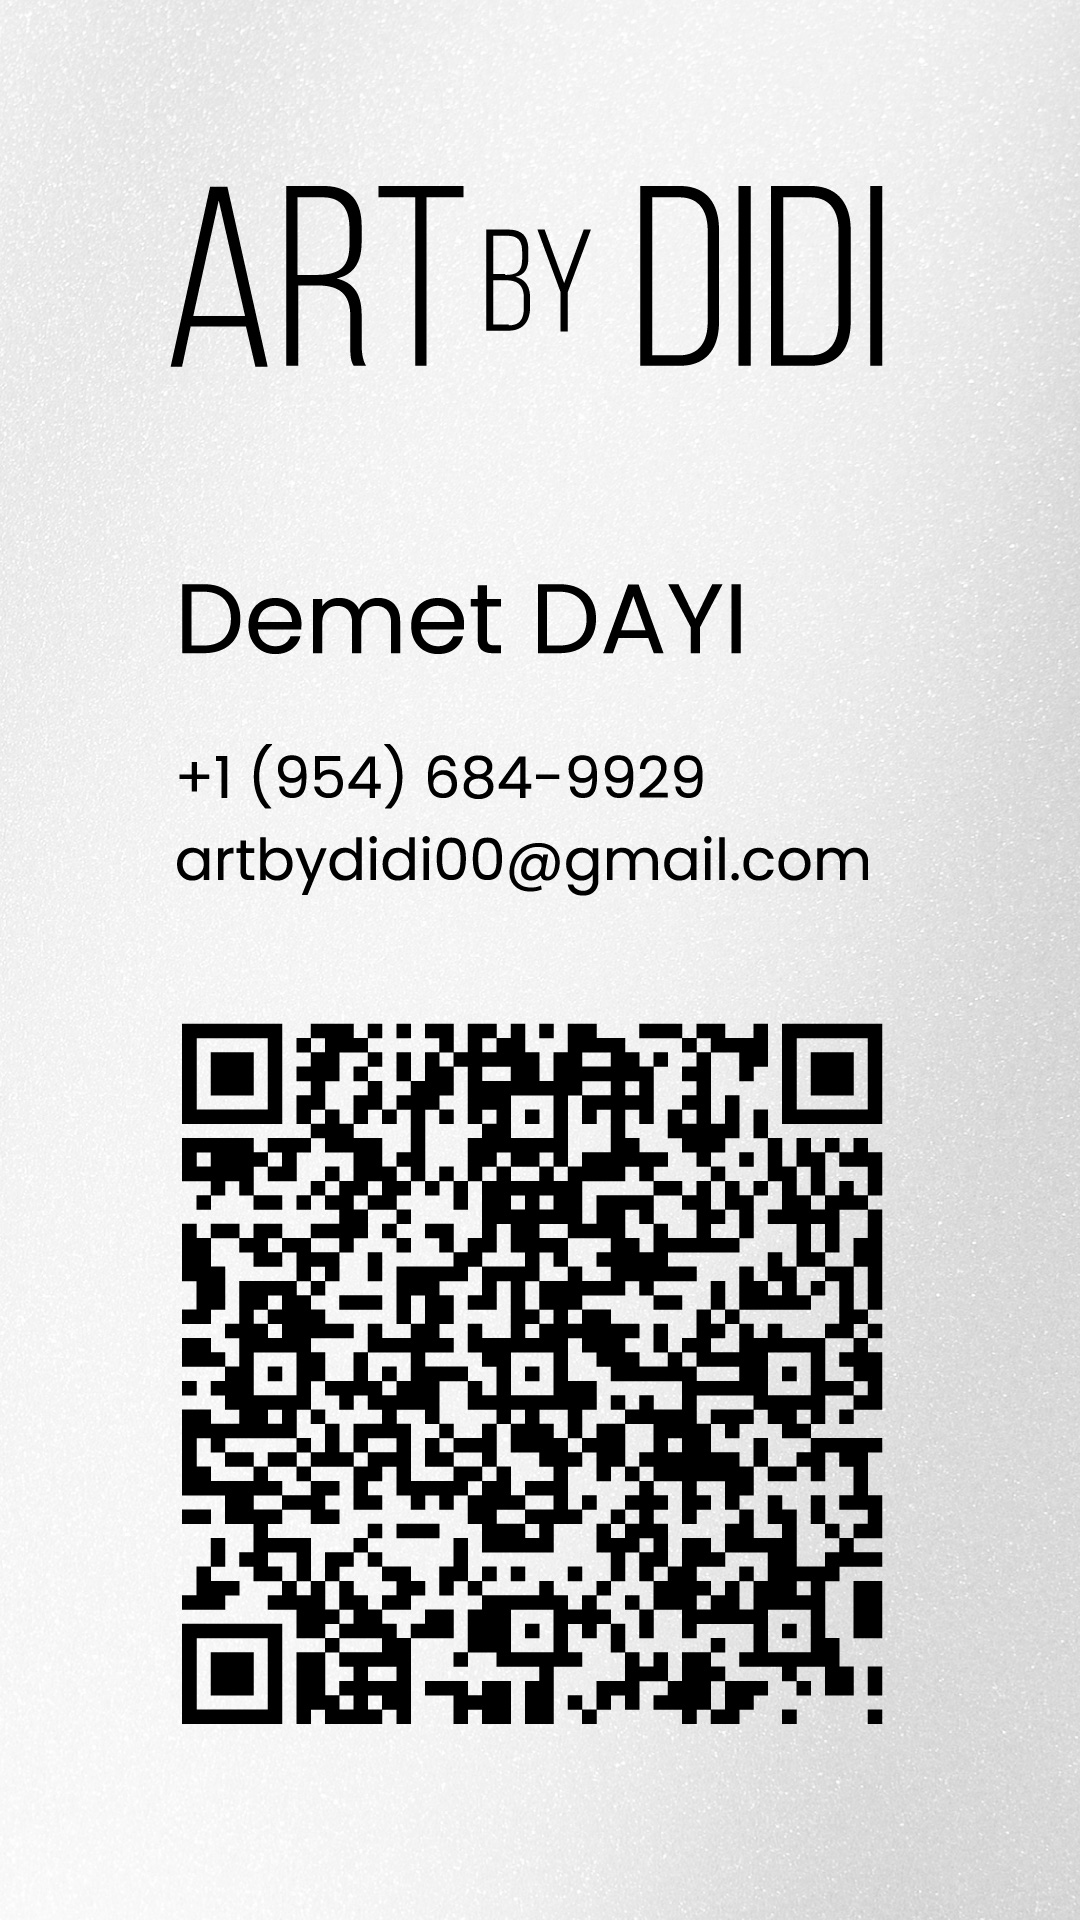
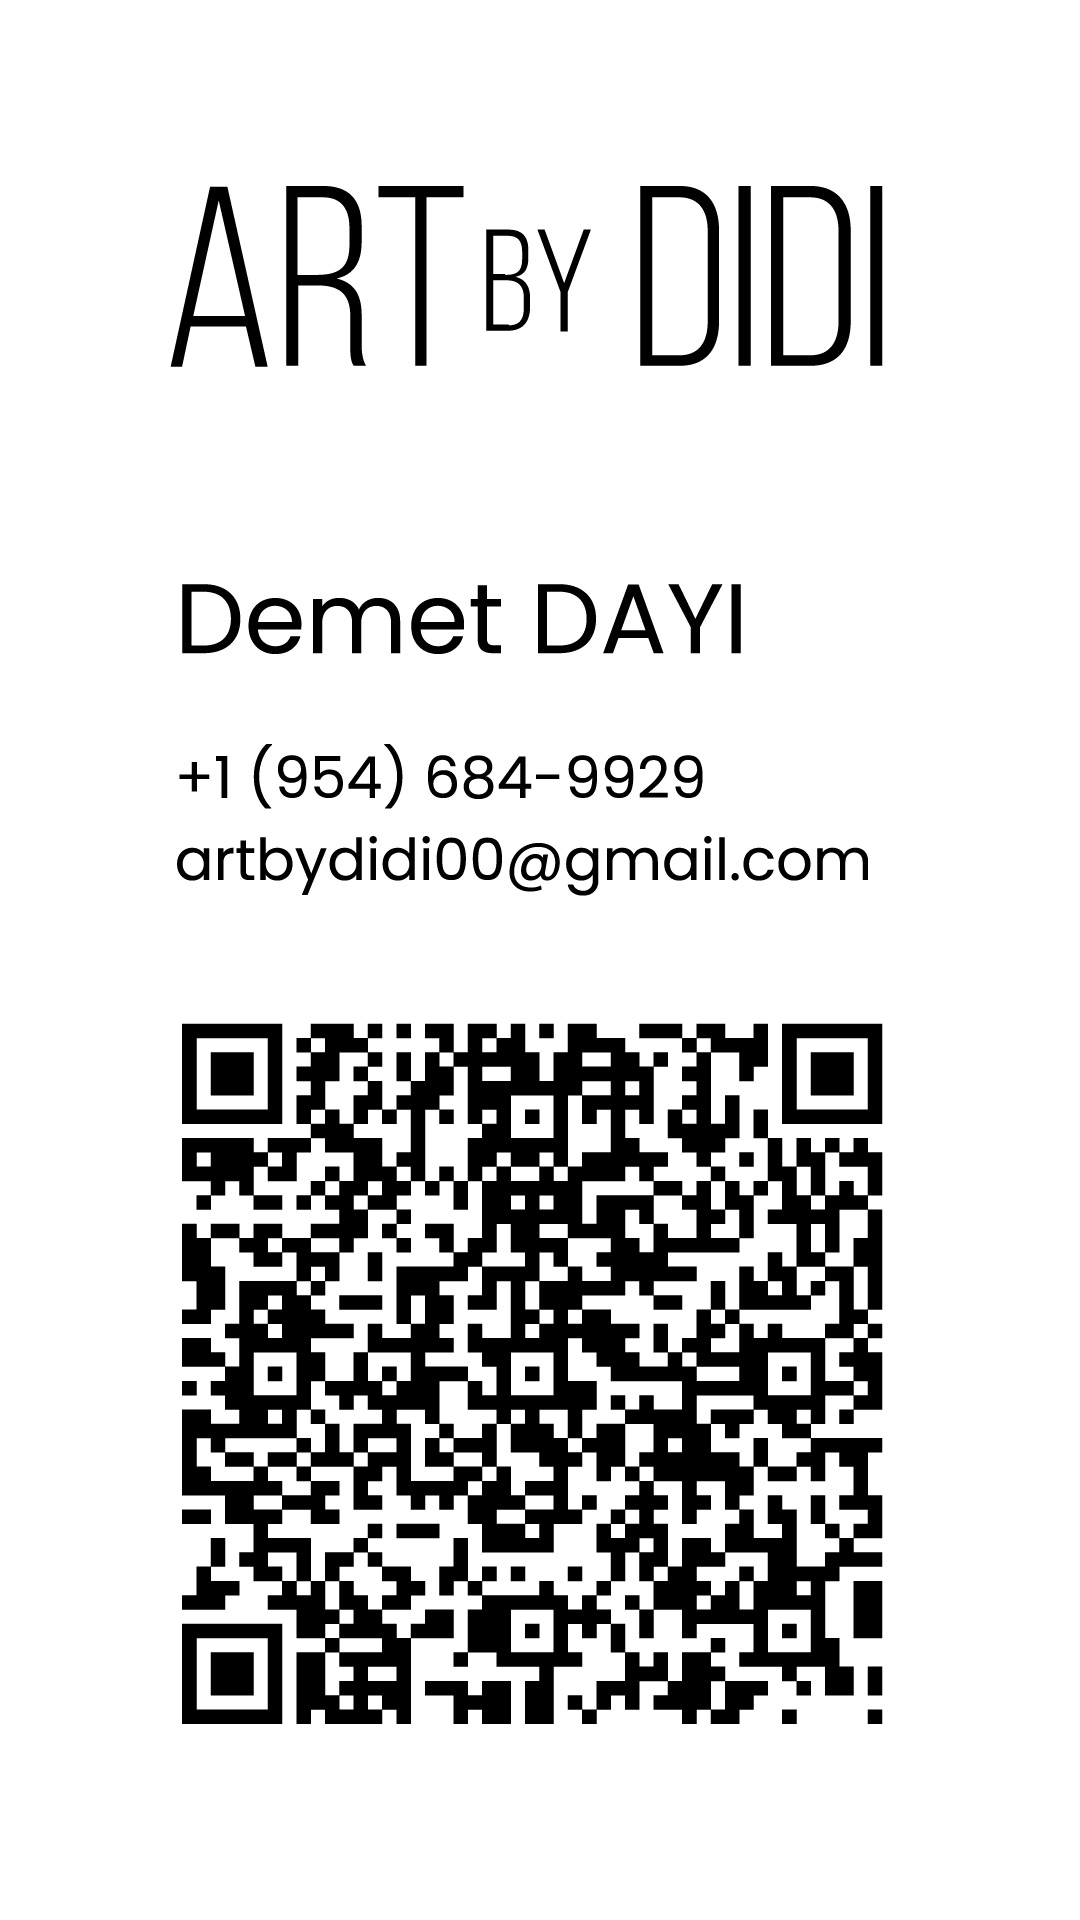
Add files via upload

Changed region(s): [[0.55, 0.0, 1.0, 1.0], [0.0, 0.0, 0.275, 0.2812]]

diff --git a/didi.html b/didi.html
@@ -6,7 +6,7 @@
             <link rel="manifest" href="/site.webmanifest">
         
         <style>
-                body {margin:0;padding:0;background:#000000;}
+                body {margin:0;padding:0;background:#ffffff;}
         </style>
     
 </head>
